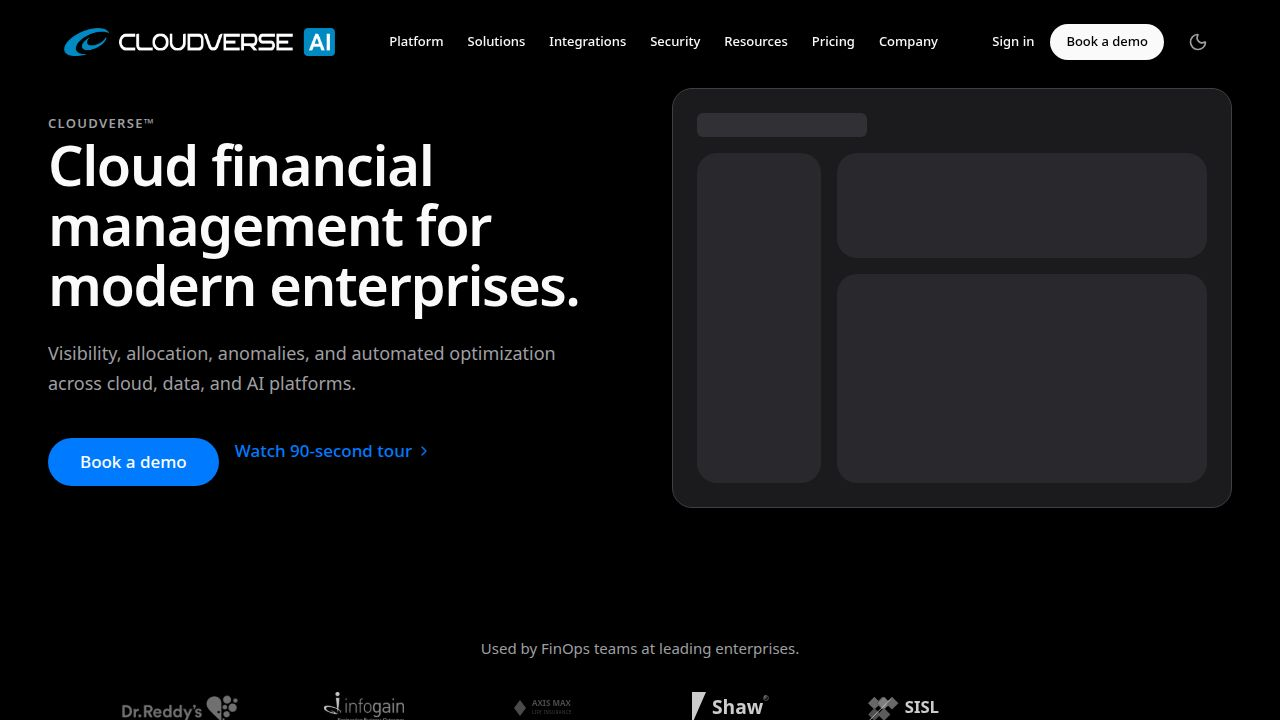
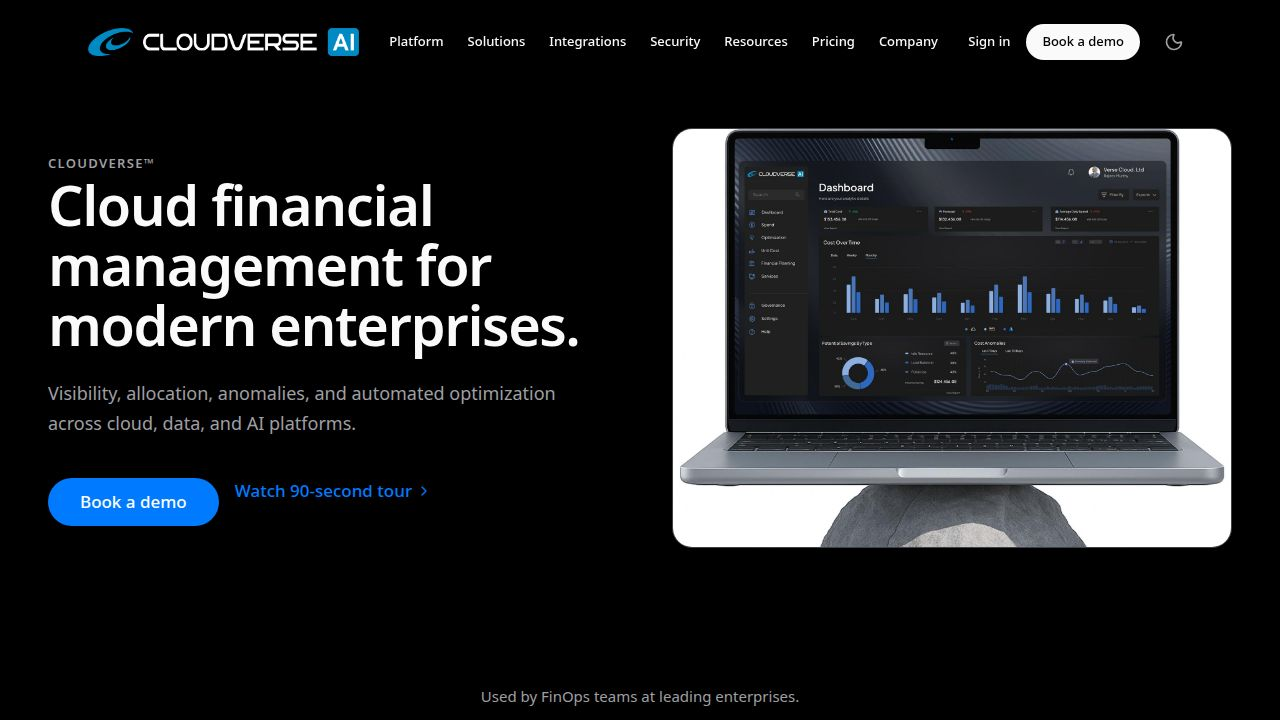
Add hero image to the home page hero section
Replace placeholder div in Home.tsx with an img tag displaying hero.jpg from the cloudverse-import directory.

Replit-Commit-Author: Agent
Replit-Commit-Session-Id: 8d2b6972-bed9-45d8-98f4-92d26cffa344
Replit-Commit-Checkpoint-Type: full_checkpoint
Replit-Commit-Event-Id: 503c3fc7-55a8-4d4e-a5b2-b1dd3c410452
Replit-Commit-Screenshot-Url: https://storage.googleapis.com/screenshot-production-us-central1/d8dacd2f-b214-4560-9121-caa3bb9575fb/8d2b6972-bed9-45d8-98f4-92d26cffa344/nfmuo6P
Replit-Helium-Checkpoint-Created: true

diff --git a/client/src/pages/Home.tsx b/client/src/pages/Home.tsx
@@ -49,17 +49,12 @@ export default function Home() {
             </div>
             
             <div className="flex-1 w-full hidden md:block">
-              <div className="aspect-[4/3] w-full rounded-cv bg-[#F5F5F7] dark:bg-cv-surface2 border border-cv-line overflow-hidden p-4 sm:p-6">
-                <div className="h-full w-full flex flex-col gap-4">
-                  <div className="h-5 sm:h-6 w-1/3 bg-cv-line/60 rounded-md"></div>
-                  <div className="flex gap-3 sm:gap-4 flex-1">
-                    <div className="w-1/4 h-full bg-cv-line/40 rounded-lg"></div>
-                    <div className="w-3/4 flex flex-col gap-3 sm:gap-4">
-                      <div className="h-1/3 w-full bg-cv-line/40 rounded-lg"></div>
-                      <div className="h-2/3 w-full bg-cv-line/40 rounded-lg"></div>
-                    </div>
-                  </div>
-                </div>
+              <div className="aspect-[4/3] w-full rounded-cv bg-[#F5F5F7] dark:bg-cv-surface2 border border-cv-line overflow-hidden">
+                <img 
+                  src="/assets/cloudverse-import/images/hero.jpg" 
+                  alt="CloudVerse dashboard" 
+                  className="w-full h-full object-cover"
+                />
               </div>
             </div>
           </div>
